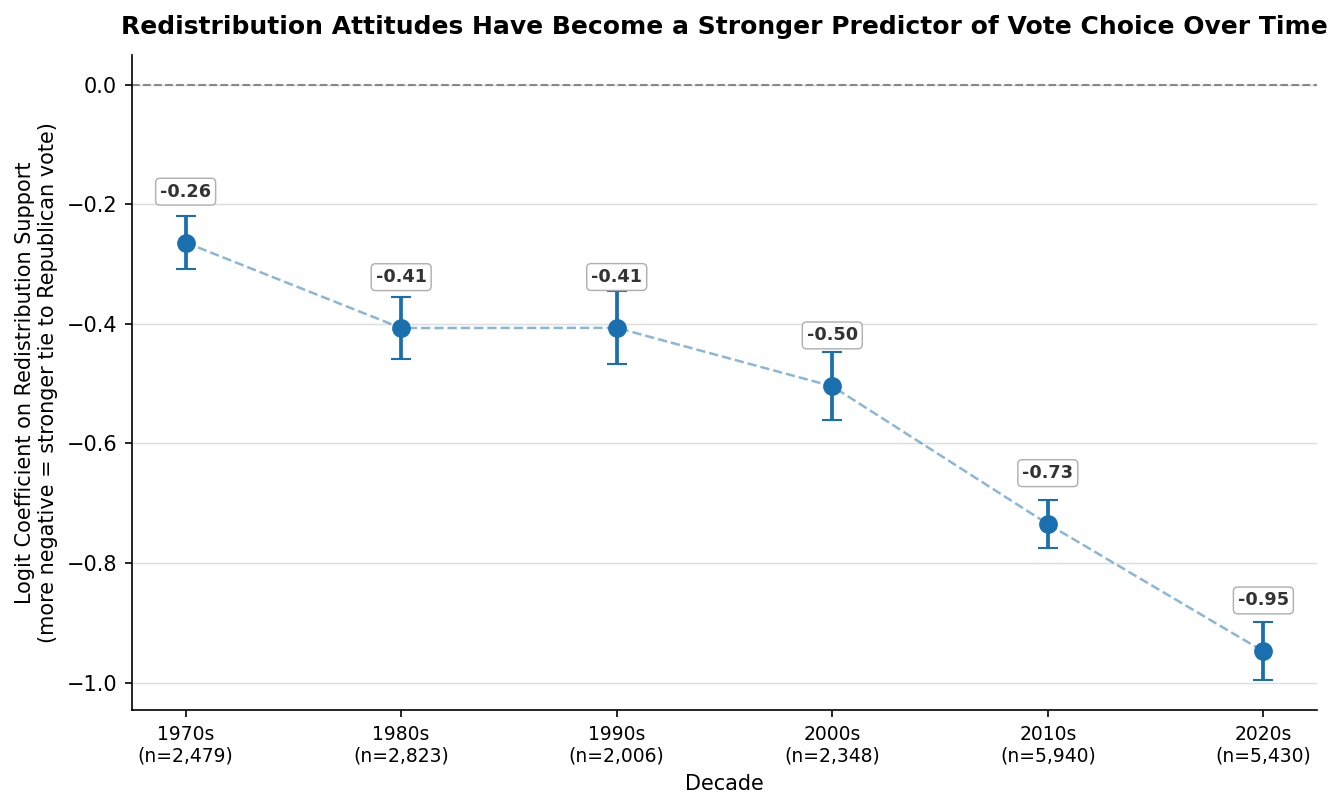
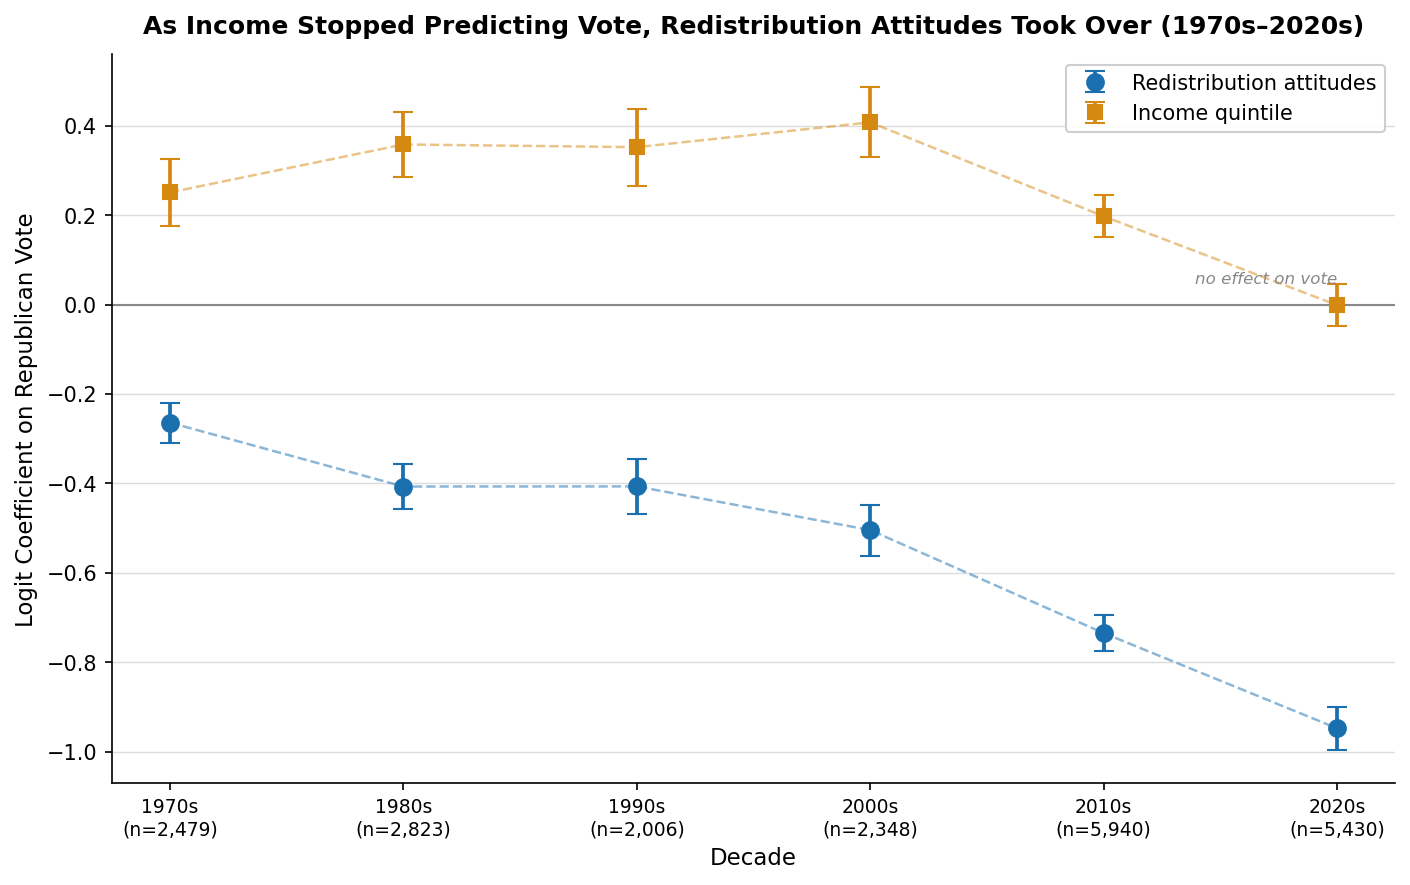
Update with Viz 4 Overlay

diff --git a/README.md b/README.md
@@ -35,8 +35,9 @@ data/
 output/
   anes_clean.csv
   decade_coefs.csv
+  income_decade_coefs.csv
   viz1_aggregate_redist.png
-  viz1_viz2_comnined.png
+  viz1_viz2_combined.png
   viz2_gini_overlay.png
   viz3_small_multiples.png
   viz4_coef_plot.png
@@ -53,17 +54,18 @@ output/
 
 ### [02_analyze.ipynb](code/02_analyze.ipynb)
 **Takes in:** `output/anes_clean.csv`  
-**Does:** Sample characterization table; income-redistribution correlations by decade; partisan gap over time; weighted OLS predicting redistribution support (3 models); logistic regression predicting Republican vote choice (4 models); decade-by-decade logit coefficients  
-**Outputs:** `output/decade_coefs.csv`
+**Does:** Sample characterization table; income-redistribution correlations by decade; partisan gap over time; weighted OLS predicting redistribution support (3 models); logistic regression predicting Republican vote choice (4 models); decade-by-decade logit coefficients for both redistribution and income predictors  
+**Outputs:** `output/decade_coefs.csv`, `output/income_decade_coefs.csv`
 
 ### [03_visualize.ipynb](code/03_visualize.ipynb)
-**Takes in:** `output/anes_clean.csv`, `output/decade_coefs.csv`, `data/gini_census.csv`  
-**Does:** Generates all four paper figures  
+**Takes in:** `output/anes_clean.csv`, `output/decade_coefs.csv`, `output/income_decade_coefs.csv`, `data/gini_census.csv`  
+**Does:** Generates all paper figures  
 **Outputs:**
 - `output/viz1_aggregate_redist.png` — aggregate redistribution support over time with Gini overlay
+- `output/viz1_viz2_combined.png` — side-by-side of aggregate support and partisan divergence (paper Figure 1)
 - `output/viz2_gini_overlay.png` — partisan gap among all Democrats vs. Republicans over time with Gini overlay
 - `output/viz3_small_multiples.png` — redistribution by income quintile × party across three decades
-- `output/viz4_coef_plot.png` — logit coefficient on redistribution support predicting vote choice, by decade
+- `output/viz4_coef_plot.png` — logit coefficients by decade for both redistribution attitudes and income predicting Republican vote choice
 
 ---
 
